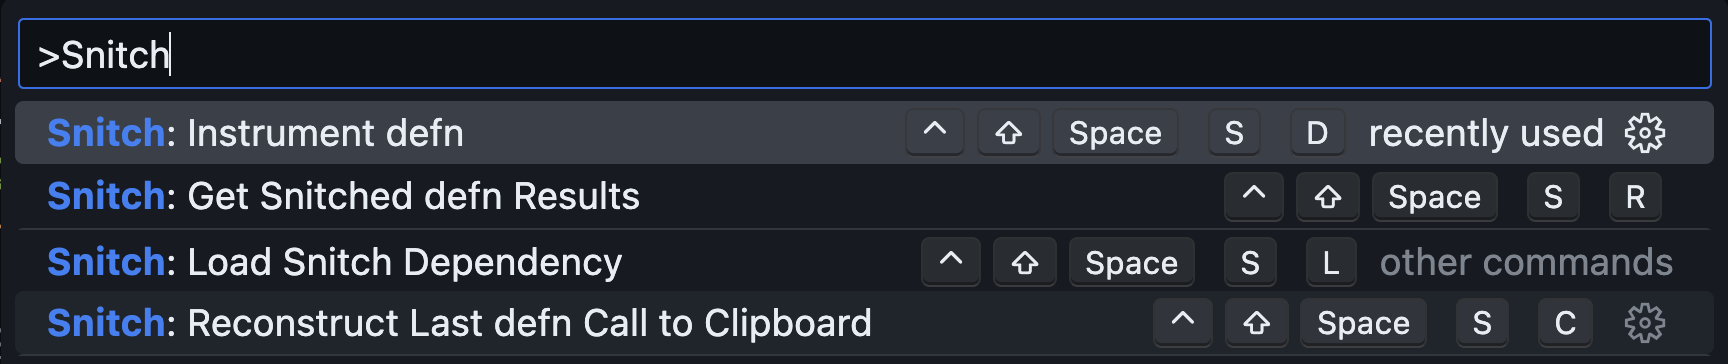
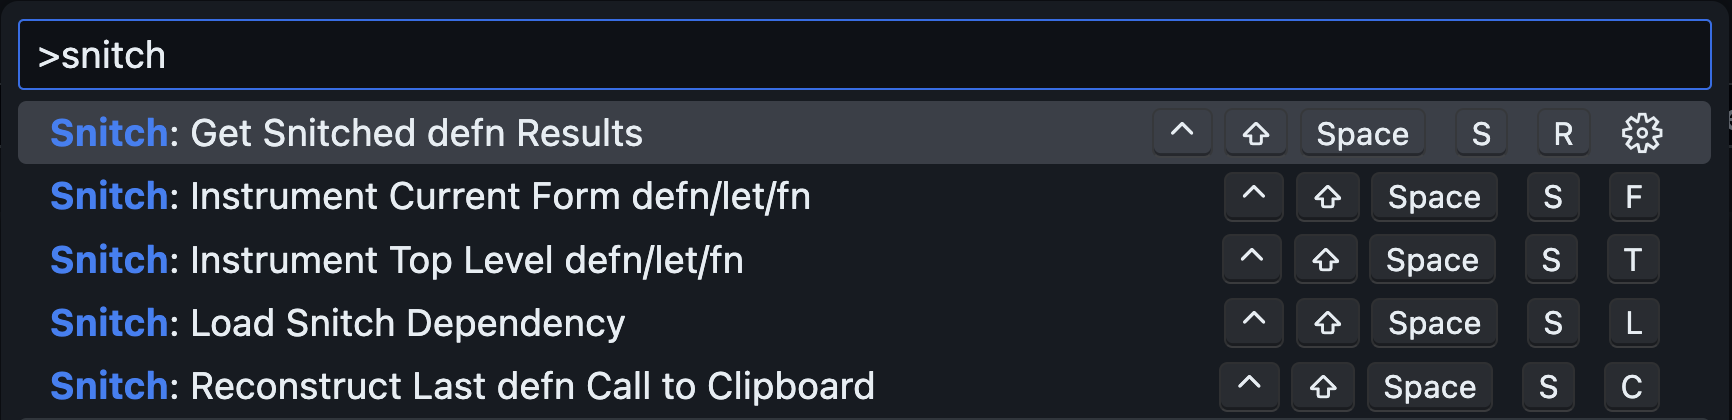
Add snitching for current form
* Fixes #25

diff --git a/CHANGELOG.md b/CHANGELOG.md
@@ -6,7 +6,7 @@ Changes to Calva Power Tools
 
 - [Add performance tools](https://github.com/BetterThanTomorrow/calva-power-tools/issues/21)
 - [Add snitching for `let` and `fn`](https://github.com/BetterThanTomorrow/calva-power-tools/issues/24)
-
+- [Add snitching for current form](https://github.com/BetterThanTomorrow/calva-power-tools/issues/25)
 
 ## [v0.0.6] - 2025-05-06
 
